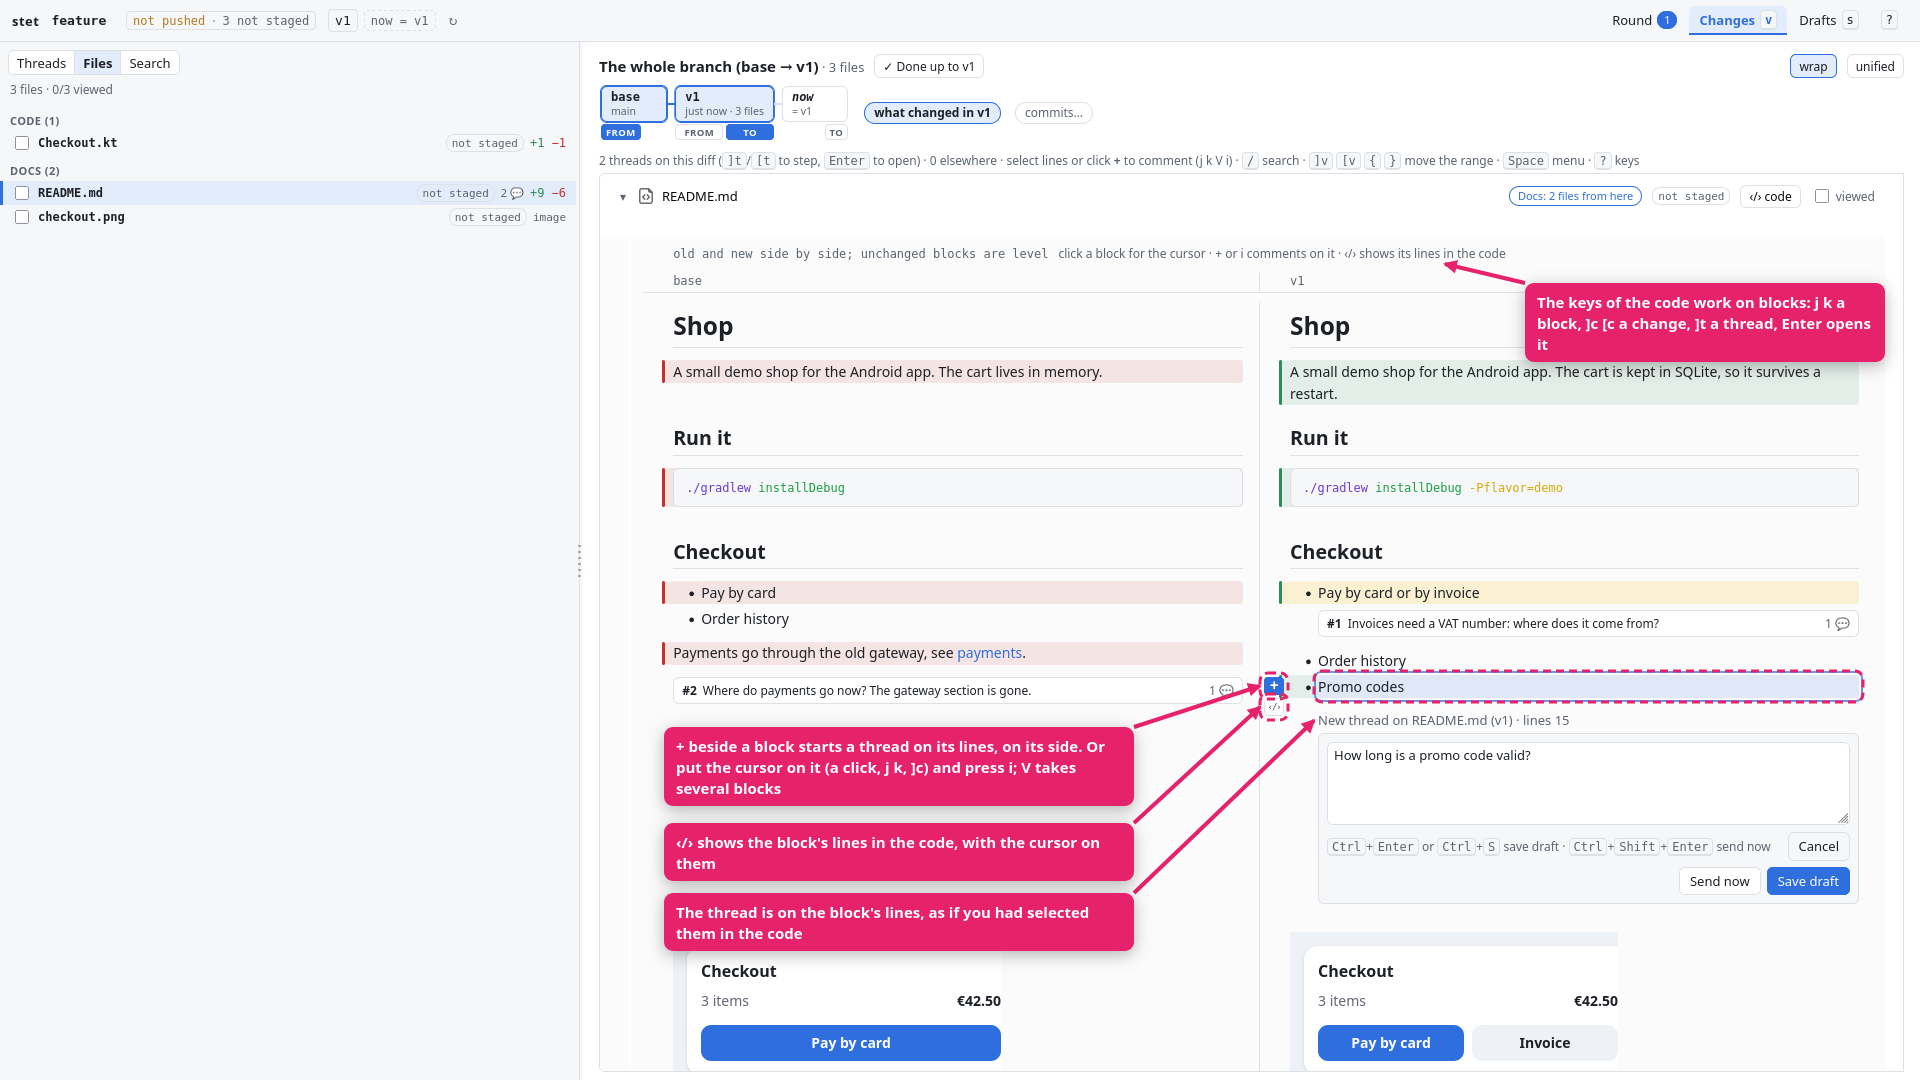
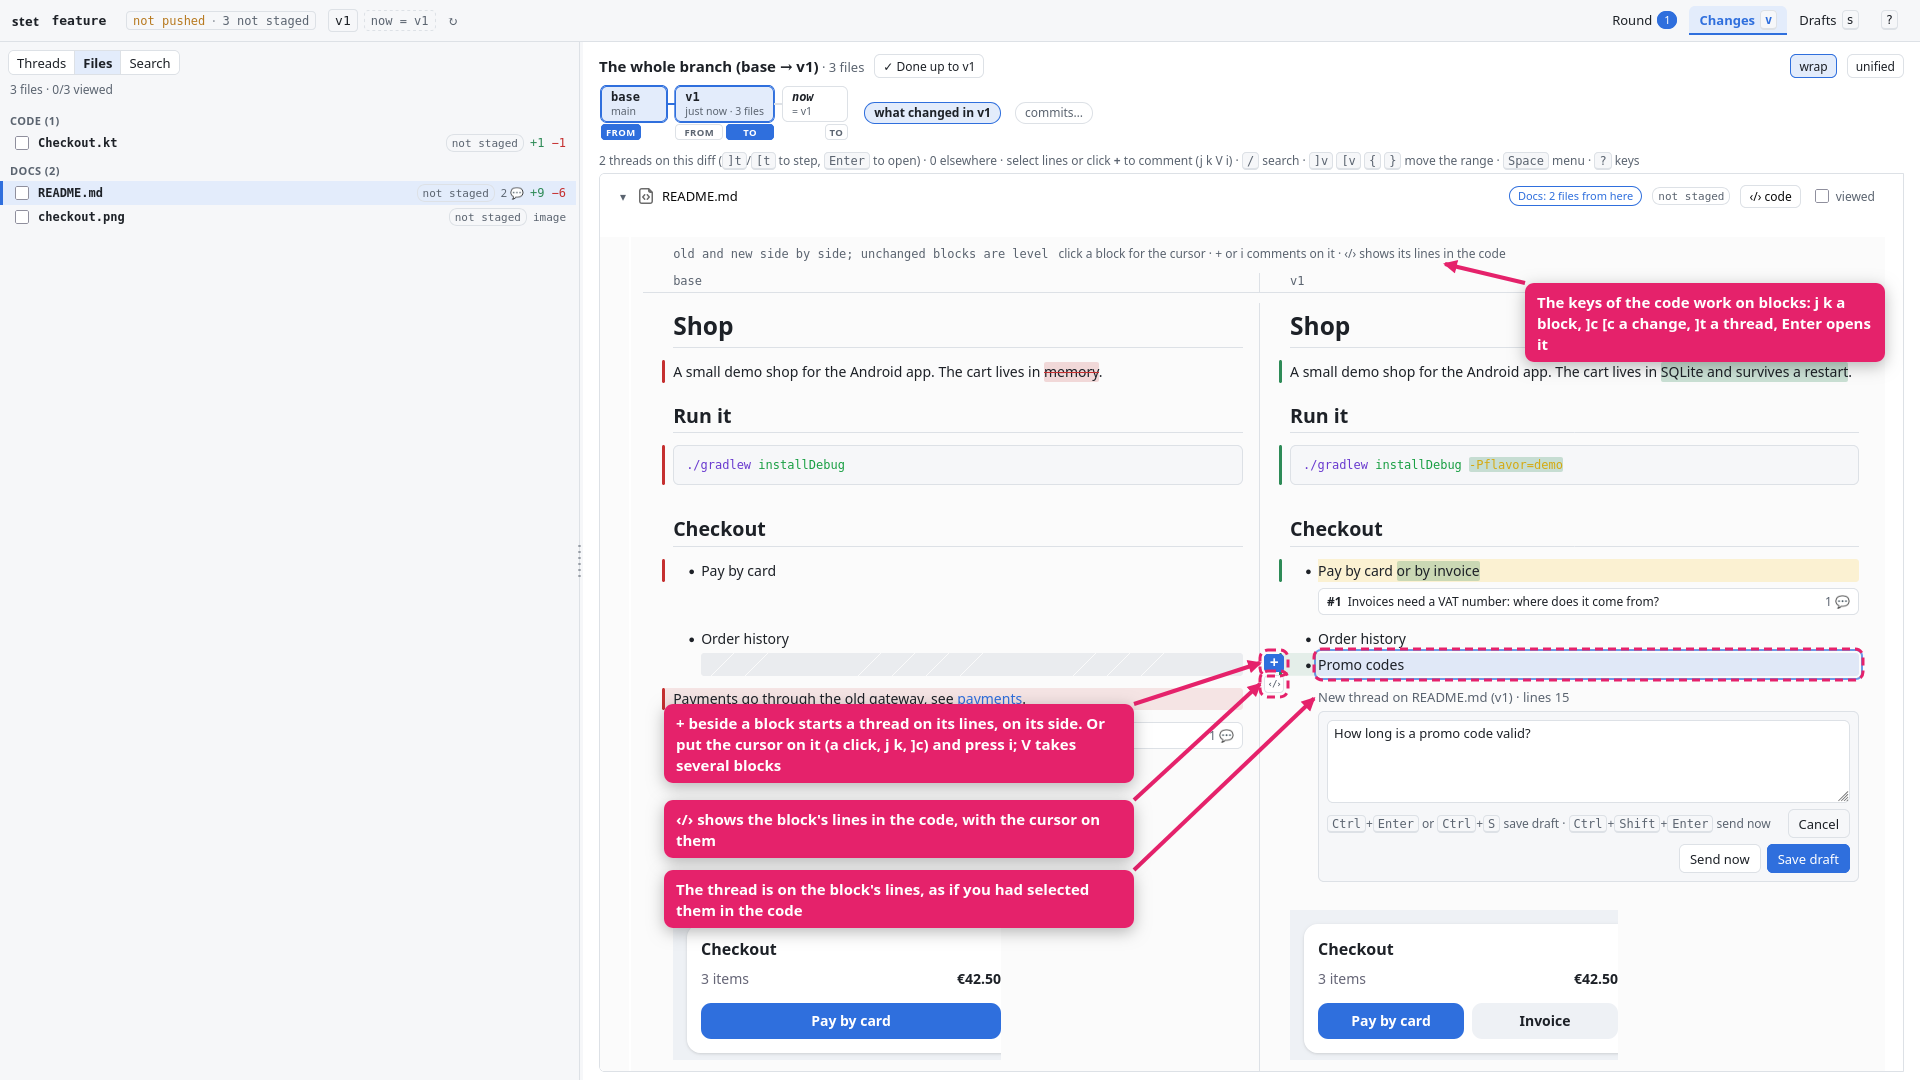
Docs and guide: rendered Markdown by default, word marks, search

diff --git a/scripts/guide/markdown.ts b/scripts/guide/markdown.ts
@@ -43,7 +43,7 @@ Payments go through the old gateway, see [payments](docs/payments.md).
 
 const after = `# Shop
 
-A small demo shop for the Android app. The cart is kept in SQLite, so it survives a restart.
+A small demo shop for the Android app. The cart lives in SQLite and survives a restart.
 
 ## Run it
 
@@ -96,8 +96,6 @@ export async function markdownGuide() {
       await p.go("#/compare/base..1");
       await p.waitFor(`document.querySelector(".md-toggle")`, 15000);
       await p.eval(`[...document.querySelectorAll(".side-tabs button")].find(b => b.textContent === "Files").click(); document.activeElement?.blur(); true`);
-      await p.sleep(800);
-      await p.eval(`document.querySelector(".md-toggle").click(); true`);
       await p.waitFor(`${md}?.querySelectorAll("img").length === 2 && [...${md}.querySelectorAll("img")].every(i => i.complete) && ${md}.querySelector("pre.shiki")`, 15000);
       await p.sleep(600);
       await toTop(`.md-view[data-file="README.md"]`, 70);
@@ -110,11 +108,13 @@ export async function markdownGuide() {
       const card = await p.need(".md-cell[data-side='new'] .md-threads .thread-mini");
       const pictureOld = await p.need(".md-cell[data-side='old'] img");
       const pictureNew = await p.need(".md-cell[data-side='new'] img");
+      const gap = await p.need(".md-cell[data-side='old'] .md-gap");
       await p.shot("markdown-1.png", [
-        { html: "<b>¶ rendered</b> / <b>‹/› code</b>: a Markdown file as text or rendered", at: { x: toggle.x - 470, y: toggle.y - 46 }, to: { x: toggle.x - 4, y: toggle.y + toggle.h / 2 }, ring: toggle, w: 400 },
+        { html: "<b>‹/› code</b>: this file as code, at the same place on the screen. Markdown opens rendered (<code>compare.markdown</code>)", at: { x: toggle.x - 520, y: toggle.y - 56 }, to: { x: toggle.x - 4, y: toggle.y + toggle.h / 2 }, ring: toggle, w: 450 },
         { html: "Split view: the old version and the new one, block facing block. Unchanged blocks stay level", at: { x: 40, y: 250 }, to: { x: heads.x - 4, y: heads.y + heads.h / 2 }, w: 420 },
-        { html: "A changed block is marked on both sides: red what was, green what is", at: { x: 40, y: 360 }, to: { x: changedOld.x - 14, y: changedOld.y + changedOld.h / 2 }, ring: { x: changedOld.x - 12, y: changedOld.y, w: changedNew.x + changedNew.w - changedOld.x + 12, h: Math.max(changedOld.h, changedNew.h) }, w: 420 },
-        { html: "Removed: red on the old side, nothing facing it. A thread on old lines shows on the old side", at: { x: 40, y: removed.y - 20 }, to: { x: removed.x - 14, y: removed.y + removed.h / 2 }, w: 420 },
+        { html: "The words that changed: struck through on the old side, green on the new one", at: { x: 40, y: 360 }, to: { x: changedOld.x - 14, y: changedOld.y + changedOld.h / 2 }, ring: { x: changedOld.x - 12, y: changedOld.y, w: changedNew.x + changedNew.w - changedOld.x + 12, h: Math.max(changedOld.h, changedNew.h) }, w: 420 },
+        { html: "Items of a changed list face each other; an added one faces an empty slot", at: { x: 40, y: gap.y - 70 }, to: { x: gap.x - 4, y: gap.y + gap.h / 2 }, ring: gap, w: 420 },
+        { html: "Removed: red on the old side, nothing facing it. A thread on old lines shows on the old side", at: { x: 40, y: removed.y + 10 }, to: { x: removed.x - 14, y: removed.y + removed.h / 2 }, w: 420 },
         { html: "A thread shows on the block its lines are in, with its card under it", at: { x: card.x + 200, y: card.y + 50 }, to: { x: card.x + 160, y: card.y + card.h + 2 }, ring: card, w: 330 },
         { html: "Each side's pictures come from its own version", at: { x: 40, y: pictureOld.y + 20 }, to: { x: pictureOld.x - 4, y: pictureOld.y + pictureOld.h / 2 }, ring: { x: pictureOld.x, y: pictureOld.y, w: pictureNew.x + pictureNew.w - pictureOld.x, h: pictureNew.h }, w: 420 },
       ]);
@@ -146,10 +146,12 @@ export async function markdownGuide() {
       await p.sleep(600);
       await toTop(`.md-view[data-file="README.md"]`, 70);
       await p.sleep(800);
-      const was = await p.need(".md-one .md-cell[data-side='old']");
-      const now = await p.need(".md-one .md-cell[data-side='new'] p.md-changed");
+      const inline = await p.need(".md-one .md-cell[data-side='new'] p.md-words");
+      const was = await p.need(".md-one .md-cell[data-side='old']", "Order history");
+      const now = await p.need(".md-one .md-cell[data-side='new'] ul");
       await p.shot("markdown-3.png", [
-        { html: "Unified view: one column. A changed block's old version, marked “was”, stands above its new one; unchanged blocks show once", at: { x: was.x + was.w + 30, y: was.y - 10 }, to: { x: was.x + was.w - 20, y: was.y + was.h / 2 }, ring: { x: was.x, y: was.y, w: was.w, h: now.y + now.h - was.y }, w: 360 },
+        { html: "Unified view: one column. A block with a few words changed shows once, with the changes in its text", at: { x: inline.x + inline.w + 30, y: inline.y - 40 }, to: { x: inline.x + inline.w + 4, y: inline.y + inline.h / 2 }, ring: inline, w: 360 },
+        { html: "Items added: the old version, marked “was”, stands above the new one", at: { x: was.x + was.w + 30, y: was.y + 20 }, to: { x: was.x + was.w - 20, y: was.y + was.h / 2 }, ring: { x: was.x, y: was.y, w: was.w, h: now.y + now.h - was.y }, w: 360 },
       ]);
       await p.eval(`[...document.querySelectorAll(".compare-head .btn")].find(b => b.textContent === "split").click(); true`);
     });

diff --git a/docs/ui.md b/docs/ui.md
@@ -49,20 +49,35 @@ gets the image with the area framed and the area at full size as PNG files (`ste
 
 ## Markdown
 
-A Markdown file shows as code; the button on its header (**¶ rendered** / **‹/› code**) shows it rendered. In
-split view the old and the new version stand side by side, block facing block: unchanged blocks are level, a
-changed block is marked on both sides, a removed one red on the old side and an added one green on the new. In
-unified view it is one column: unchanged blocks once, and a changed block's old version (marked "was") above
-its new one, the way unified code shows removed lines above added ones. An added or a deleted file has one side.
-Pictures load from the repository at the version of their side; pictures from the web are not loaded (their
-address is shown instead), raw HTML stays text, and code blocks are highlighted.
+A Markdown file shows rendered. The button on its header (**‹/› code** / **¶ rendered**) switches that file to its
+code and back while the page is open, and keeps your place at the same height on the screen: the block at the cursor
+(or the topmost block in view) becomes its first line in the diff, a line becomes the block that holds it, and the
+cursor follows. `stet config set compare.markdown code` makes code the default.
+
+In split view the old and the new version stand side by side, block facing block: unchanged blocks are level, and
+inside a changed list or table the items and rows face each other too (nested items as well), with an empty slot
+facing an item or a row that was added or removed. The words that changed are marked in the text, struck through on
+the old side and green on the new one; a picture or a link whose address changed is framed or underlined, with the
+old address on hover. A block of which more than 60% of the words changed is marked as a whole instead. Blocks that
+one change rewrote together are paired by how alike they are; when nothing is alike they stay one group.
+
+In unified view it is one column. A block with a few words changed shows once, with the changes in its text. When
+the structure changed (another kind of block, items or rows added or removed, a code block) or the block was
+rewritten, its old version (marked "was") stands above its new one, the way unified code shows removed lines above
+added ones. An added or a deleted file has one side. Pictures load from the repository at the version of their
+side; pictures from the web are not loaded (their address is shown instead), raw HTML stays text, and code blocks
+are highlighted.
 
 Threads are on lines here too. A thread shows on the blocks its lines are in, with its card under the last of
 them (and its lines on the card when it covers only part of a block); a thread on blank lines shows on the
 block before them. A click on a block puts the cursor on it; **+** beside a block (or `i` on the cursor's
 block, `V` with `j` / `k` for several) starts a thread on the block's lines, on its side, and **‹/›** beside it
-shows those lines in the code with the cursor on them. A link to another file opens it in the preview
-([guide](guide/README.md#markdown)).
+shows those lines in the code where the block was, with the cursor on them. A link to another file opens it in the
+preview.
+
+Search reads the rendered text: a match is highlighted where it shows and the cursor goes to its block. A match
+that only the Markdown source has (a link address, a picture's path, markup) shows that file as code, and a note
+says so ([guide](guide/README.md#markdown)).
 
 ## Keys
 
@@ -72,8 +87,9 @@ what can follow it. Counts work (`5j`), and so do non-Latin keyboard layouts (ke
 physical position). A tour with screenshots: [guide](guide/README.md#navigation).
 
 On the Changes page a cursor moves over the diff (a click on a line puts it there). In a rendered Markdown file it
-moves over the blocks instead of the hidden lines, the old side's before the new side's where they differ; a picture
-(an image, an SVG shown as a picture) is one stop:
+moves over the blocks instead of the hidden lines (an unchanged block once, a changed one on its old side, then its
+new side), and `Ctrl+d` / `Ctrl+u` move it by half a screen of blocks; a picture (an image, an SVG shown as a
+picture) is one stop:
 
 | Key | Action |
 |---|---|

diff --git a/docs/guide/README.md b/docs/guide/README.md
@@ -106,20 +106,24 @@ their paths: the image with the area framed and the rest dimmed, and the area wi
 
 ## Markdown
 
-A Markdown file of the diff shows as code; **¶ rendered** on its header shows it rendered (and **‹/› code** goes
-back). In split view the old version and the new one stand side by side, block facing block, so a reader sees
-what changed in the text as it reads, not in the markup. Pictures of the repository load at the version of their
-side; pictures from the web are not loaded, raw HTML stays text.
+A Markdown file of the diff shows rendered (`stet config set compare.markdown code` makes code the default, and
+**‹/› code** on its header switches one file, keeping your place on the screen). In split view the old version and
+the new one stand side by side, block facing block, so a reader sees what changed in the text as it reads, not in
+the markup: the words that changed are marked, items and rows of a changed list or table face each other, and an
+added one faces an empty slot. Pictures of the repository load at the version of their side; pictures from the web
+are not loaded, raw HTML stays text.
 
-![The old and the new README side by side, with threads on their blocks](markdown-1.png)
+![The old and the new README side by side, with the changed words and a thread on a block](markdown-1.png)
 
 Threads are still on lines, so the agent gets the same thread as from the code. A thread shows on the blocks its
 lines are in; **+** beside a block, or `i` on the block under the cursor, starts one on the block's lines. The
-cursor keys of the code move over the blocks, and **‹/›** beside a block shows its lines in the code.
+cursor keys of the code move over the blocks, and **‹/›** beside a block shows its lines in the code. Search
+finds matches in the rendered text.
 
 ![A thread on a list item, and the buttons beside a block](markdown-2.png)
 
-In unified view the text is one column: a changed block's old version, marked "was", stands above its new one.
+In unified view the text is one column: a block with a few words changed shows once with the changes in it, and a
+block that was rewritten or changed its structure shows its old version, marked "was", above the new one.
 
 ![The same change in unified view](markdown-3.png)
 
